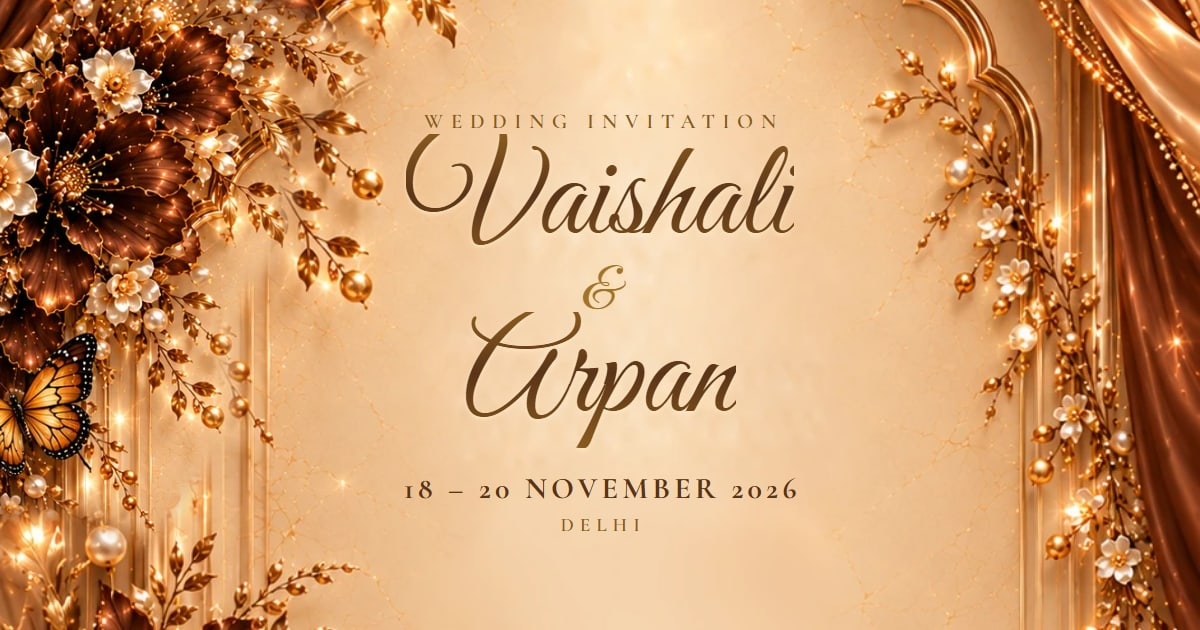
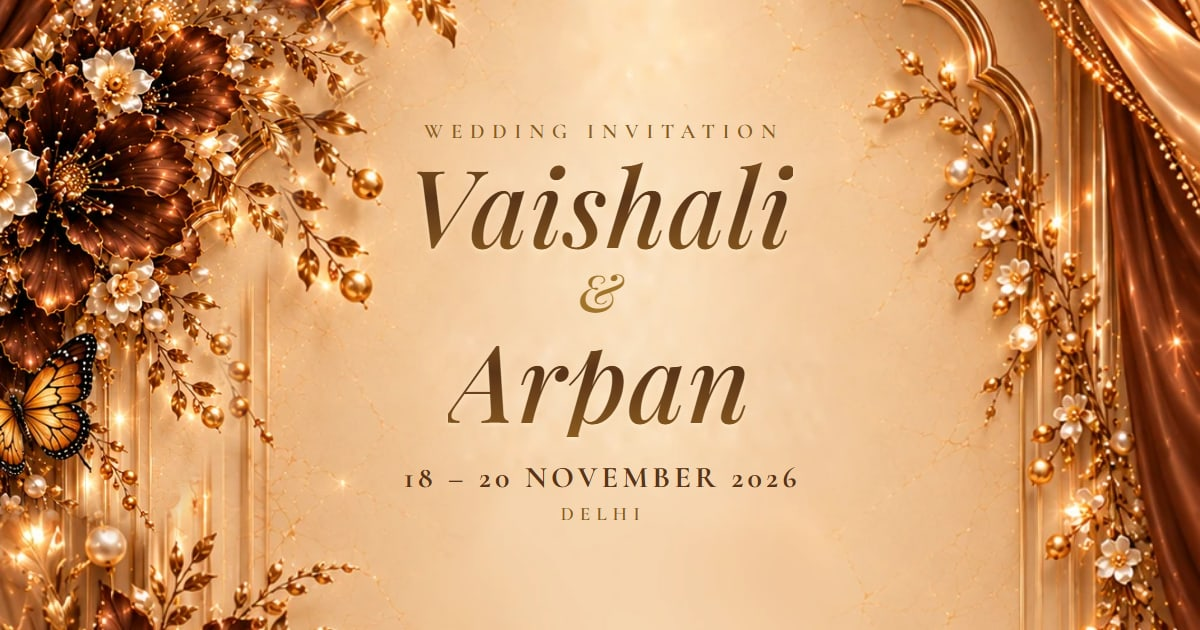
vaishali-arpan-wedding: client's final round — Ganesha and mantra on the hero, readable name face, Bhaat at 5 PM, opening tap fixed, preview image refreshed
- Hero: the demo's small Ganesha under the arch's point and the two-line Vakratunda mantra (the Nirankar couplet kept in config for a one-line restore); names in Playfair Display italic
- Opening: a tap anywhere on the envelope opens (not only the button); the envelope stays until the film is really playing, so a slow film never shows a black screen; repeated taps are ignored
- Day 1: 5:00 PM Bhaat between Mehendi and DJ Night, on the page and in event-18nov.ics
- Closing: config slot for the couple's AV monogram (file still awaited; the heart stays until then)
- og.jpg regenerated with the new name face (?v=3)

Changed region(s): [[0.3392, 0.181, 0.6783, 0.3921], [0.37, 0.4222, 0.6783, 0.8444], [0.3392, 0.754, 0.37, 0.7841]]

diff --git a/public/vaishali-arpan-wedding/js/opening.js b/public/vaishali-arpan-wedding/js/opening.js
@@ -11,6 +11,7 @@ export function OpeningScreen(cfg, { audio, onStart, onOpened }) {
   const tap = h('button', { class: 'tap', type: 'button', 'aria-label': 'Tap to open the invitation' },
     h('span', { class: 'ring', 'aria-hidden': 'true' }), h('span', {}, 'Tap to Open'));
   const frame = h('div', { class: 'frame' }, h('img', { class: 'art', src: cfg.poster, alt: 'Sealed wedding invitation', fetchpriority: 'high', decoding: 'async' }), tap);
+  frame.style.cursor = 'pointer'; // the seal, the envelope, the button: one tap anywhere opens
   const opening = h('div', { class: 'opening' }, h('div', { class: 'column' }, frame));
 
   const video = h('video', { playsinline: true, 'webkit-playsinline': true, preload: 'auto', src: cfg.video, 'aria-label': 'Opening film', disablepictureinpicture: true, disableremoteplayback: true });
@@ -21,7 +22,7 @@ export function OpeningScreen(cfg, { audio, onStart, onOpened }) {
   const skip = h('button', { class: 'skip', type: 'button', style: { display: 'none' } }, 'Skip');
   document.body.append(opening, film, skip);
 
-  let opened = false, done = false, raf = 0, lastT = -1, lastMove = 0;
+  let opened = false, done = false, raf = 0, lastT = -1, lastMove = 0, letGoOpening = null;
   const timers = [];
   const later = (fn, ms) => timers.push(setTimeout(fn, ms));
 
@@ -62,6 +63,7 @@ export function OpeningScreen(cfg, { audio, onStart, onOpened }) {
     cancelAnimationFrame(raf);
     timers.forEach(clearTimeout);
     removeEventListener('resize', place);
+    if (letGoOpening) letGoOpening();
     audio.begin();
     onOpened();
     film.classList.add('fade');
@@ -69,8 +71,10 @@ export function OpeningScreen(cfg, { audio, onStart, onOpened }) {
     setTimeout(() => { try { video.pause(); video.removeAttribute('src'); video.load(); } catch { /* already gone */ } film.remove(); }, 1100);
   }
 
-  tap.addEventListener('click', () => {
+  const open = () => {
     if (opened) return; opened = true;
+    tap.querySelector('span:last-child').textContent = 'Opening…';
+    tap.disabled = true;
     const fs = document.documentElement.requestFullscreen || document.documentElement.webkitRequestFullscreen;
     // best effort, never awaited: some browsers leave this promise pending, and the film must not wait for it
     if (fs) { try { const p = fs.call(document.documentElement, { navigationUI: 'hide' }); if (p && p.catch) p.catch(() => {}); } catch { /* not allowed here, that's fine */ } }
@@ -78,13 +82,15 @@ export function OpeningScreen(cfg, { audio, onStart, onOpened }) {
     audio.prime(); // the music starts muted inside this gesture, so it may be let in later without another tap
     film.classList.add('playing');
     requestAnimationFrame(place);
-    opening.classList.add('out');
-    setTimeout(() => opening.remove(), 1000); // not among the film's timers: it goes whatever the film does
+    // the envelope stays in view until the film is really playing (a slow connection otherwise shows a black
+    // screen that looks stuck); finish() lets it go too, whatever the film does
+    const letGo = () => { if (opening.isConnected && !opening.classList.contains('out')) { opening.classList.add('out'); setTimeout(() => opening.remove(), 1000); } };
+    letGoOpening = letGo;
     video.muted = false;
     seal.style.opacity = '1';
     lastMove = performance.now();
     raf = requestAnimationFrame(frameStep);
-    const onPlaying = () => { skip.style.display = ''; place(); };
+    const onPlaying = () => { skip.style.display = ''; place(); letGo(); };
     video.addEventListener('playing', onPlaying, { once: true });
     video.addEventListener('ended', finish, { once: true });
     video.addEventListener('error', finish, { once: true });
@@ -97,5 +103,7 @@ export function OpeningScreen(cfg, { audio, onStart, onOpened }) {
       video.play().then(() => audio.begin()).catch(finish);
     });
     skip.addEventListener('click', finish);
-  });
+  };
+  tap.addEventListener('click', (e) => { e.stopPropagation(); open(); });
+  frame.addEventListener('click', open);
 }

diff --git a/public/vaishali-arpan-wedding/js/app.js b/public/vaishali-arpan-wedding/js/app.js
@@ -25,16 +25,17 @@ const page1 = Page(1, [
   spr('p1-flowers-a', { still: true, motion: 'sway soft', origin: '0% 45%', z: 1 }),
   spr('p1-flowers-b', { still: true, motion: 'sway soft alt', origin: '0% 50%', z: 1 }),
   butterfly('p1-butterfly', { z: 2 }),
-  live('h-invocation', H.invocation, { size: 2.3, cls: 'serif caps tight soft', delay: 0.1, wrap: false }),
-  live('h-hindi', H.hindi, { size: 2.65, cls: 'deva burgundy', delay: 0.25, lang: 'hi' }),
+  H.ganesha ? h('div', { class: 's reveal', style: { ...box('h-ganesha'), zIndex: 3, '--d': '0.1s' } }, h('img', { src: H.ganesha, alt: 'Lord Ganesha', decoding: 'async', draggable: 'false' })) : null,
+  H.invocation ? live('h-invocation', H.invocation, { size: 2.3, cls: 'serif caps tight soft', delay: 0.1, wrap: false }) : null,
+  live('h-hindi', H.hindi, { size: 2.6, cls: 'deva burgundy', delay: 0.25, lang: 'hi', wrap: false }),
   sprAt('h-rule1', 'p1-rule1', { delay: 0.4 }),
   live('h-blessings', H.blessings, { size: 2.3, cls: 'serif caps soft', delay: 0.5, wrap: false }),
   live('h-parents', H.parents, { size: 3.15, cls: 'serif bold deep', delay: 0.6 }),
   live('h-request', H.request, { size: 2.5, cls: 'serif italic', delay: 0.7 }),
-  live('h-bride', C.couple.bride, { size: 10.8, cls: 'script burgundy', delay: 0.6, slow: true, wrap: false }),
+  live('h-bride', C.couple.bride, { size: 8, cls: 'name burgundy', delay: 0.6, slow: true, wrap: false }),
   live('h-bride-of', H.brideOf, { size: 2.5, cls: 'serif semibold', delay: 0.9 }),
   live('h-with', H.with, { size: 2.4, cls: 'serif caps soft', delay: 1, wrap: false }),
-  live('h-groom', C.couple.groom, { size: 10.8, cls: 'script burgundy', delay: 0.9, slow: true, wrap: false }),
+  live('h-groom', C.couple.groom, { size: 8, cls: 'name burgundy', delay: 0.9, slow: true, wrap: false }),
   live('h-groom-of', H.groomOf, { size: 2.5, cls: 'serif semibold', delay: 1.2 }),
   h('div', { class: 'hint', 'aria-hidden': 'true' }, h('span', {}, 'Scroll'), h('i')),
 ], { id: 'page-1' });
@@ -191,7 +192,7 @@ const pageClosing = Page(8, [
   sprAt('z-rule', 'p8-rule', { delay: 0.5 }),
   live('z-lines', Z.lines, { size: 3.2, cls: 'serif italic', delay: 0.65 }),
   live('z-hashtag', Z.hashtag, { size: 3.8, cls: 'serif bold soft', delay: 0.8, wrap: false }),
-  sprAt('z-heart', 'p8-heart', { delay: 0.95 }),
+  Z.logo ? h('div', { class: 's reveal', style: { ...box('z-logo'), zIndex: 3, '--d': '0.95s' } }, h('img', { src: Z.logo, alt: `${C.couple.bride} & ${C.couple.groom} monogram`, decoding: 'async', draggable: 'false', style: { objectFit: 'contain' } })) : sprAt('z-heart', 'p8-heart', { delay: 0.95 }),
   h('a', { class: 'created', href: 'https://invitivals.com/', target: '_blank', rel: 'noopener' }, 'Created by ', h('b', {}, 'INVITIVALS')),
 ], { id: 'page-closing', crop: { top: 0.26 } });
 

diff --git a/public/vaishali-arpan-wedding/config.js b/public/vaishali-arpan-wedding/config.js
@@ -8,8 +8,11 @@ export const config = {
 
   /* page 1 */
   hero: {
-    invocation: 'Ek Tu Hi Nirankar',
-    hindi: ['तेरे आसरा ले के करता हूँ काम,', 'मेरे सतगुरु तुझको लाखो सलाम ।'],
+    /* the client's final round (5 Nov) opens the slide with Ganesha and his mantra; the earlier Nirankar
+       invocation stays here in case the family wants it back: set ganesha to '' and restore these two */
+    ganesha: 'assets/p1-ganesha.webp',
+    invocation: '', /* was 'Ek Tu Hi Nirankar' */
+    hindi: ['वक्रतुण्ड महाकाय सूर्यकोटि समप्रभ।', 'निर्विघ्नं कुरु मे देव सर्वकार्येषु सर्वदा॥'], /* was ['तेरे आसरा ले के करता हूँ काम,', 'मेरे सतगुरु तुझको लाखो सलाम ।'] */
     blessings: 'With Blessings',
     parents: 'Mrs. Vanita Gupta & Mr. Subhash Chand Gupta',
     request: ['With joy and love, we invite you to bless', 'the wedding of our beloved daughter.'],
@@ -34,6 +37,7 @@ export const config = {
         ['1:00 PM', 'Radha Krishna Phoolon Ki Haldi'],
         ['2:00 PM onwards', 'Pool Party', 'Please bring your swimming costumes for the pool party!'],
         ['4:00 PM onwards', 'Mehendi'],
+        ['5:00 PM', 'Bhaat'],
         ['7:00 PM onwards', 'DJ Night'],
         ['8:00 PM', 'Dinner'],
       ],
@@ -73,7 +77,9 @@ export const config = {
 
   stars: { title: 'A Little Message from Our Little Stars', big: 'My Bua is getting married!', line: ['Please join us to celebrate', 'this beautiful new beginning!'], love: 'With love,', names: 'Mishika, Navya & Himanshi' },
 
-  closing: { title: ['Your Presence Is', 'Our Greatest Gift'], lines: 'We look forward to celebrating these beautiful moments with you and your family.', hashtag: '#theARVAStory' },
+  /* logo: the couple's own AV monogram, once the client supplies the file (assets/av-logo.png, transparent);
+     until then the page keeps the demo's small heart flourish under the hashtag */
+  closing: { title: ['Your Presence Is', 'Our Greatest Gift'], lines: 'We look forward to celebrating these beautiful moments with you and your family.', hashtag: '#theARVAStory', logo: '' },
 
   opening: {
     video: 'assets/opening.mp4',

diff --git a/public/vaishali-arpan-wedding/index.html b/public/vaishali-arpan-wedding/index.html
@@ -14,8 +14,8 @@
 <meta property="og:url" content="https://invitivals.com/vaishali-arpan-wedding/">
 <meta property="og:title" content="Vaishali &amp; Arpan · Wedding Invitation">
 <meta property="og:description" content="18 – 20 November 2026 · Delhi. Tap to open the invitation.">
-<meta property="og:image" content="https://invitivals.com/vaishali-arpan-wedding/assets/og.jpg?v=2">
-<meta property="og:image:secure_url" content="https://invitivals.com/vaishali-arpan-wedding/assets/og.jpg?v=2">
+<meta property="og:image" content="https://invitivals.com/vaishali-arpan-wedding/assets/og.jpg?v=3">
+<meta property="og:image:secure_url" content="https://invitivals.com/vaishali-arpan-wedding/assets/og.jpg?v=3">
 <meta property="og:image:type" content="image/jpeg">
 <meta property="og:image:width" content="1200">
 <meta property="og:image:height" content="630">
@@ -23,14 +23,14 @@
 <meta name="twitter:card" content="summary_large_image">
 <meta name="twitter:title" content="Vaishali &amp; Arpan · Wedding Invitation">
 <meta name="twitter:description" content="18 – 20 November 2026 · Delhi. Tap to open the invitation.">
-<meta name="twitter:image" content="https://invitivals.com/vaishali-arpan-wedding/assets/og.jpg?v=2">
+<meta name="twitter:image" content="https://invitivals.com/vaishali-arpan-wedding/assets/og.jpg?v=3">
 <link rel="icon" href="favicon.svg" type="image/svg+xml">
 <link rel="preload" as="image" href="assets/opening.webp" fetchpriority="high">
 <link rel="preload" as="image" href="assets/plate1.webp">
 <link rel="modulepreload" href="js/app.js">
 <link rel="preconnect" href="https://fonts.googleapis.com">
 <link rel="preconnect" href="https://fonts.gstatic.com" crossorigin>
-<link href="https://fonts.googleapis.com/css2?family=Cormorant+Garamond:ital,wght@0,400;0,500;0,600;0,700;1,400;1,500&family=Great+Vibes&family=Noto+Serif+Devanagari:wght@500;600&display=swap" rel="stylesheet">
+<link href="https://fonts.googleapis.com/css2?family=Cormorant+Garamond:ital,wght@0,400;0,500;0,600;0,700;1,400;1,500&family=Great+Vibes&family=Playfair+Display:ital,wght@1,500&family=Noto+Serif+Devanagari:wght@500;600&display=swap" rel="stylesheet">
 <link rel="stylesheet" href="css/invite.css">
 <link rel="stylesheet" href="css/client.css">
 </head>

diff --git a/public/vaishali-arpan-wedding/js/layout.js b/public/vaishali-arpan-wedding/js/layout.js
@@ -8,17 +8,18 @@ Object.assign(art, {
      every box is as tall as its words, with a steady gap of ~0.8 % between groups and a smaller one between a
      name and its own line. The block starts below the arch's cusps (~13.2 % at x 39 / 63 %) and ends above
      the painted couple, whose heads begin at ~57 % on the right (x > 72 %) */
-  'h-invocation': { x: 32.4, y: 15.2, w: 40, h: 1.3 },
-  'h-hindi': { x: 29.4, y: 17.3, w: 46, h: 4.33 },
-  'h-rule1': { x: 40.4, y: 22.5, w: 24, h: 1.913 },
-  'h-blessings': { x: 32.4, y: 25.2, w: 40, h: 1.3 },
-  'h-parents': { x: 29.4, y: 27.1, w: 46, h: 4.44 },
-  'h-request': { x: 28.4, y: 32.3, w: 48, h: 3.8 },
-  'h-bride': { x: 27.4, y: 36.9, w: 50, h: 6.38 },
-  'h-bride-of': { x: 29.4, y: 43.5, w: 46, h: 3.66 },
-  'h-with': { x: 37.4, y: 48.1, w: 30, h: 1.35 },
-  'h-groom': { x: 27.4, y: 50.0, w: 50, h: 6.38 },
-  'h-groom-of': { x: 29.4, y: 56.6, w: 46, h: 3.66 },
+  'h-ganesha': { x: 48.7, y: 12.4, w: 7.4, h: 5.65 }, /* the demo's small Ganesha, 140×190, under the arch's point */
+  'h-invocation': { x: 32.4, y: 12.0, w: 40, h: 1.3 }, /* only when the invocation line is set (then Ganesha is not) */
+  'h-hindi': { x: 27.4, y: 18.9, w: 50, h: 4.2 },
+  'h-rule1': { x: 40.4, y: 24.0, w: 24, h: 1.913 },
+  'h-blessings': { x: 32.4, y: 26.6, w: 40, h: 1.3 },
+  'h-parents': { x: 29.4, y: 28.5, w: 46, h: 4.44 },
+  'h-request': { x: 28.4, y: 33.7, w: 48, h: 3.8 },
+  'h-bride': { x: 25.4, y: 38.3, w: 54, h: 5.4 },
+  'h-bride-of': { x: 29.4, y: 44.1, w: 46, h: 3.66 },
+  'h-with': { x: 37.4, y: 48.6, w: 30, h: 1.35 },
+  'h-groom': { x: 25.4, y: 50.5, w: 54, h: 5.4 },
+  'h-groom-of': { x: 29.4, y: 56.3, w: 46, h: 3.66 },
 
   /* page 2: the parchment's date, three lines */
   'p2-date3': { x: 35, y: 57.8, w: 30, h: 12.4 },
@@ -69,4 +70,5 @@ Object.assign(art, {
   'z-lines': { x: 20, y: 51.8, w: 60, h: 5.2 },
   'z-hashtag': { x: 25, y: 58.2, w: 50, h: 3 },
   'z-heart': { x: 35.919, y: 62.6, w: 28.905, h: 3.947 },
+  'z-logo': { x: 42.4, y: 61.4, w: 20, h: 8 }, /* the couple's monogram in place of the heart, once supplied */
 });

diff --git a/public/vaishali-arpan-wedding/css/client.css b/public/vaishali-arpan-wedding/css/client.css
@@ -20,8 +20,9 @@ body { font-variant-numeric: lining-nums; }
 .s.live.bold { font-weight: 700; }
 .s.live.semibold { font-weight: 600; }
 .s.live.italic { font-style: italic; }
-.s.live.deva { font-family: var(--deva); font-weight: 500; line-height: 1.45; }
+.s.live.deva { font-family: var(--deva); font-weight: 500; line-height: 1.45; white-space: nowrap; }
 .s.live.script { line-height: 1.05; }
+.s.live.name { font-family: 'Playfair Display', 'Cormorant Garamond', Georgia, serif; font-style: italic; font-weight: 500; letter-spacing: .01em; line-height: 1.15; }
 .s.live.serif.wrap { line-height: 1.25; }
 .s.live.italic.wrap { line-height: 1.3; }
 .s.live.date3 { color: var(--burgundy); line-height: 1.12; }
